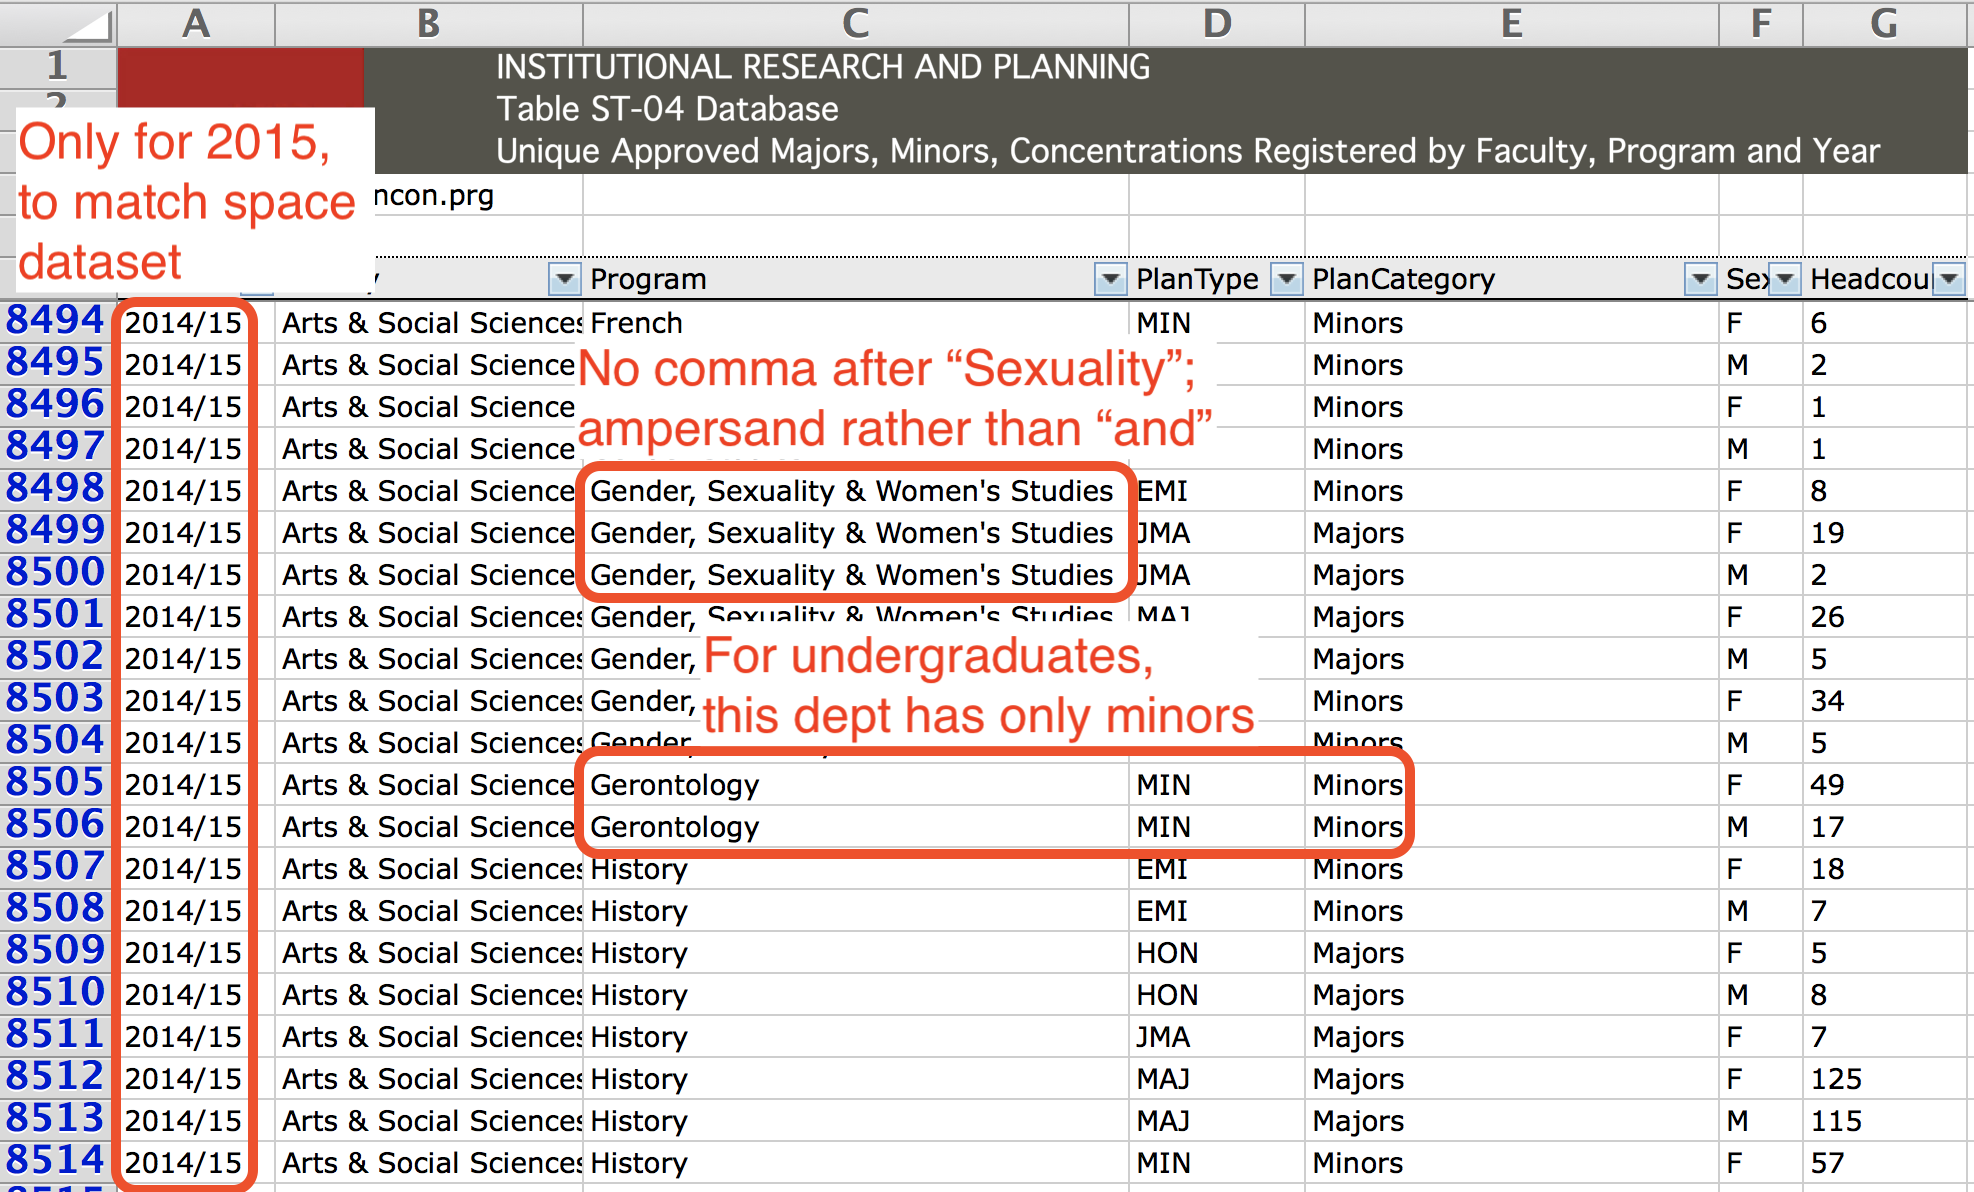
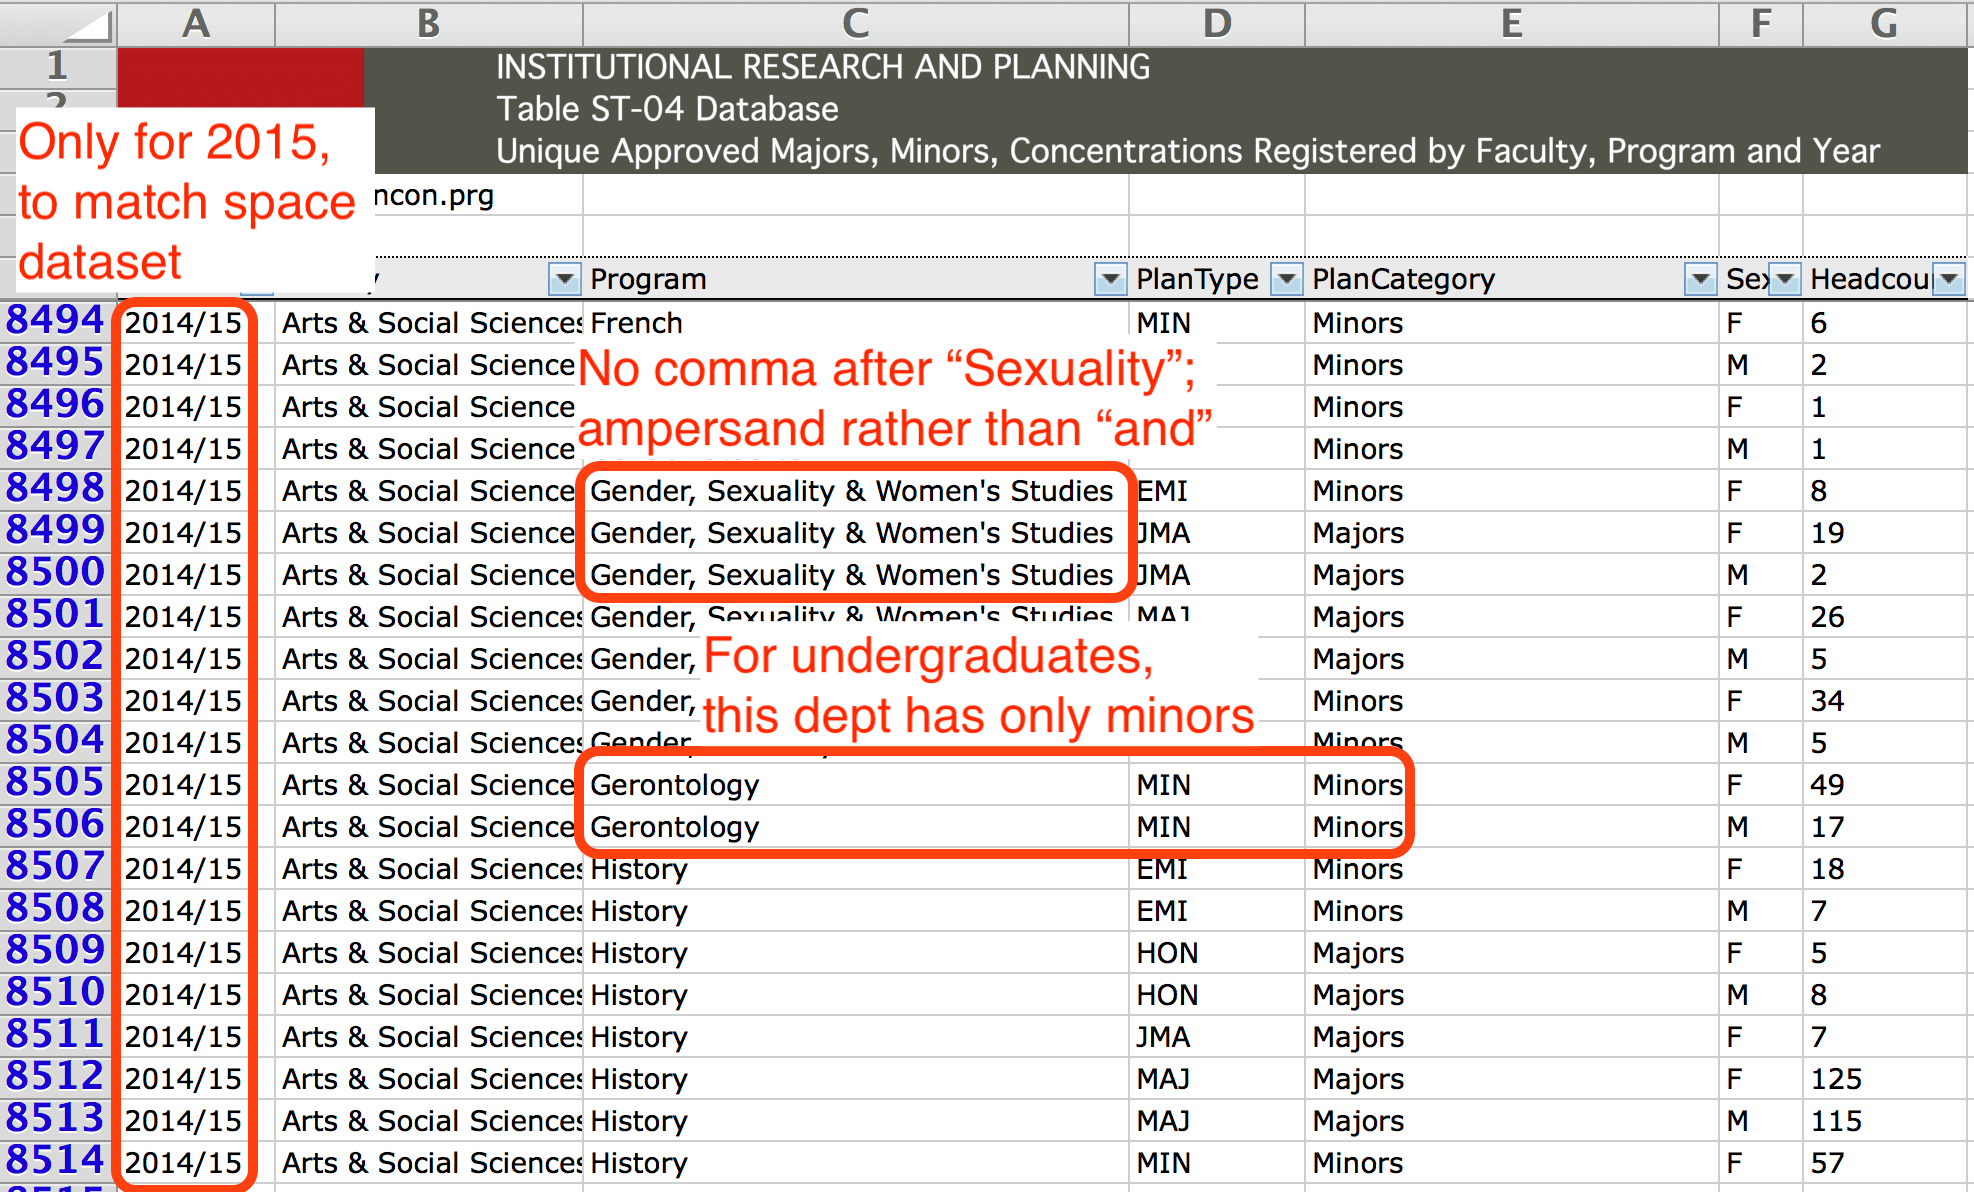
Use compressed PNG

diff --git a/PITCHME.md b/PITCHME.md
@@ -76,7 +76,7 @@ be improved through application of a data-focused analysis. Good targets include
 
 ---
 
-### Example: Undergraduate headcount spreadsheet from IRP
+### Example: Undergraduate headcount spreadsheet (IRP)
 
 ![Excel spreadsheet from IRP, showing undergrad headcounts for 2014/2015; noting different spelling of Women's Studies department name, minors-only department](assets/img/UG-headcount-Excel-annotated.png)
 
